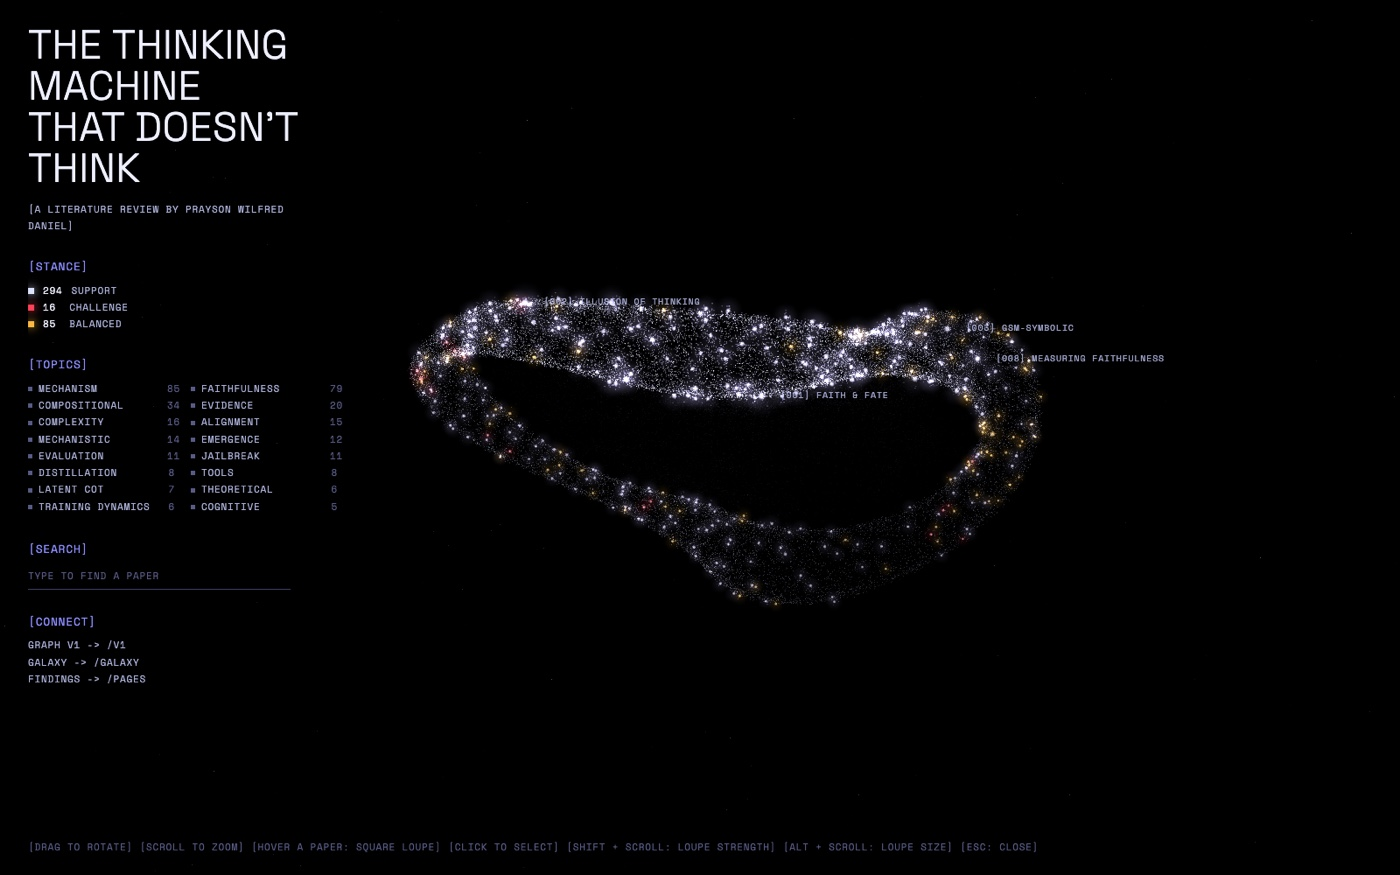
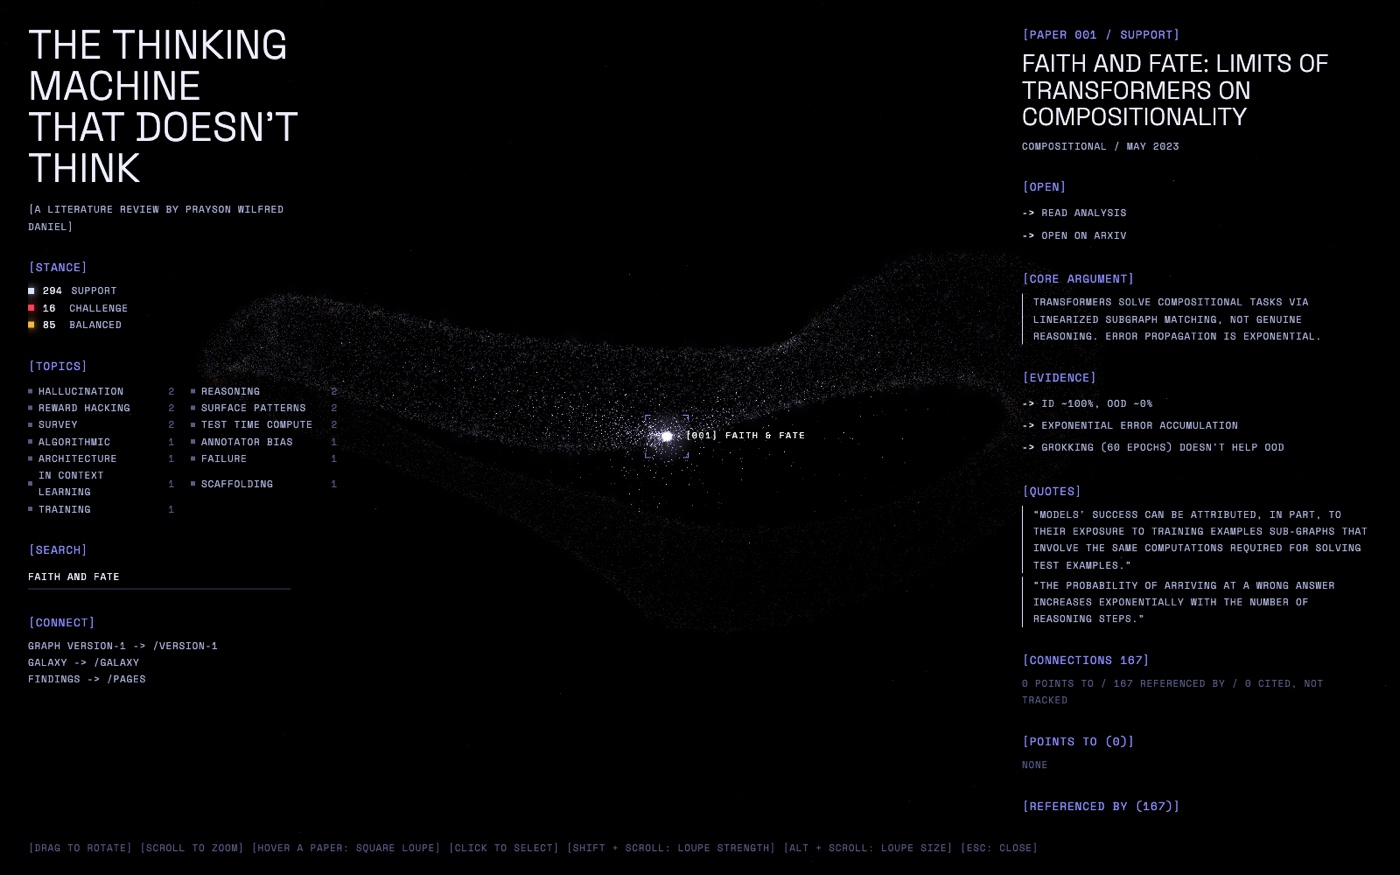
docs: use the selected-paper state for the README hero image
Searching "faith and fate" and pressing enter shows the square loupe, the
camera framing, and the detail panel with analysis and arXiv links.

diff --git a/README.md b/README.md
@@ -3,7 +3,7 @@
 > **A systematic literature review on LLM reasoning capabilities**
 
 <a href="https://proteusiq.github.io/unthinking/">
-  <img src="docs/assets/constellation.jpg" alt="The citation constellation: 395 papers arranged as a twisted ring, with stance counts and topic clusters" />
+  <img src="docs/assets/constellation.jpg" alt="The citation constellation with Faith and Fate selected: the ring of 395 papers, the square loupe around the paper, and its detail panel with analysis and arXiv links" />
 </a>
 
 [![GitHub Pages](https://img.shields.io/badge/demo-live-brightgreen)](https://proteusiq.github.io/unthinking/)
@@ -40,7 +40,7 @@ RL and test-time compute surface pre-existing capabilities rather than creating 
 
 ## Interactive Visualization
 
-[![The citation constellation](docs/assets/constellation.jpg)](https://proteusiq.github.io/unthinking/)
+[![Faith and Fate selected in the citation constellation](docs/assets/constellation.jpg)](https://proteusiq.github.io/unthinking/)
 
 Three static, client-side views of the same corpus. No backend, no build step for the
 first two:
